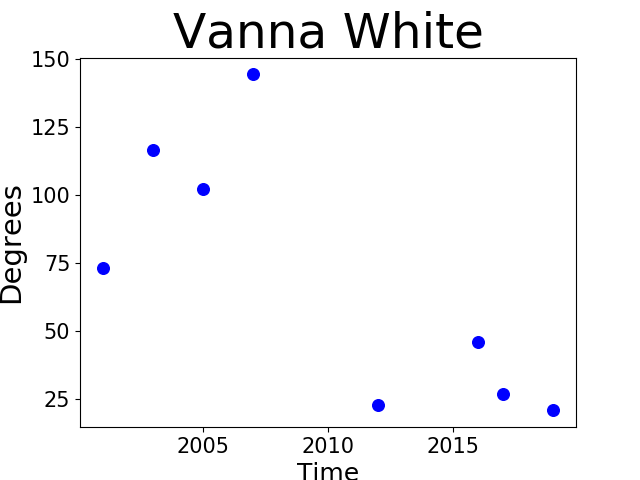
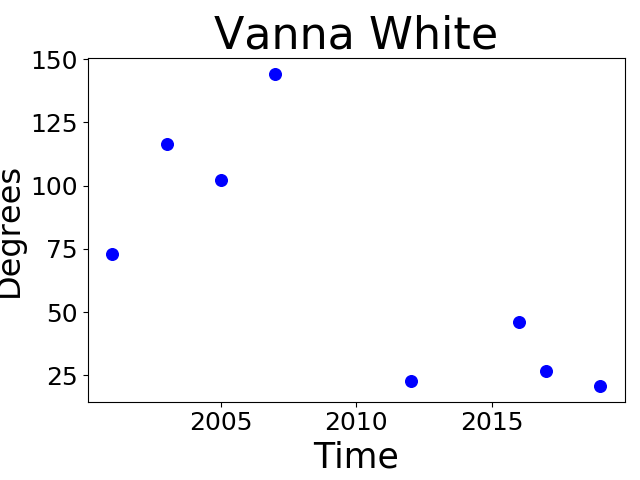
docstrings for data_processor.py

diff --git a/data_processor.py b/data_processor.py
@@ -22,6 +22,17 @@ INT_TO_DIM = {
 
 
 class Subject:
+	"""
+		Stores relevant data for subject.
+
+		Fields:
+			uuid (int): subject identifier
+			parkinsons (bool): True if subject has parkinsons
+			pose_3d (np.array): shape => (frames (time),dimensions,joint ID)
+			date: Date of time sample from pose_3d. -1 if time is irrelevant.
+			group: depecriated. Ignore
+
+	"""
 	def __init__(self,id,parkinsons,pose_3d,date = -1,group = -1): 
 		self.uuid = id
 		self.parkinsons = parkinsons
@@ -30,6 +41,14 @@ class Subject:
 		self.group = group
 
 	def process_features(self,fp):
+		"""
+			Calculates all target features for subject.
+
+			Parameters: 
+				fp (FeatureProcessor): Specified FeatureProcessor to use with calculations
+			Returns:
+				(dictionary): Object containing subjects target features
+		"""
 		features = {}
 		pelvis_angles = fp.pelvis_angles(self.pose_3d)
 		pelvis_accelerations = fp.pelvis_accelerations(self.pose_3d)
@@ -46,14 +65,21 @@ class Subject:
 
 class FeatureProcessor:
 	def __init__(self):
+		"""
+			Holds the methods that calculate specific subject features.
+			Class should contain options relevant to calculations.
+		"""
 		pass
-
-
-
 
 	def pelvis_angles(self,pose_3d):
 		'''
-		@params: pose_3d data of shape => (frames,dimensions,joint ID)
+			Calculates max difference of X,Y,Z pelvis angles for 3d pose.
+
+			Parameters:
+				pose_3d (np.array): shape (frames (time),dimensions,joint ID)
+
+			Returns:
+				(list): [X,Y,Z] pelvis features
 		'''
 		pelvis_angles = {'time_series': [[] for _ in range(3)] , 'diff': [-1 for _ in range(3)]}
 		pelvis_joint_index = 0
@@ -88,6 +114,17 @@ class FeatureProcessor:
 
 
 	def pelvis_accelerations(self,pose_3d):
+		'''
+			Calculates the max difference of the pelvis accelerations for 3d pose.
+
+
+			Parameters:
+				pose_3d: (np.array): shape (frames (time),dimensions,joint ID)
+
+			Returns:
+				(list): [X,Y,Z] pelvis acceleration features
+		'''
+
 		pelvis_acceleration = {'time_series': [[None] for _ in range(3)] , 'diff': [-1 for _ in range(3)]}
 		for dim in range(3):
 			pelvis_positions =  np.asarray([x[dim][0] for x in pose_3d])
@@ -100,6 +137,15 @@ class FeatureProcessor:
 
 
 def get_subjects(split_subjects = False, frame_step = 35):
+	"""
+		Creates a subject object for all subjects located  in tf-pose-estimation/raw_data.
+		
+		Parameters:
+			split_subjects (bool): Indicates whether to split a full time series into multiple subjects
+			frame_step (int): If split_subjects = True, specificy the length needed for each signal to become its own subject.
+		Returns:
+			(dictionary): Object containing all of the calculated subjects
+	"""
 	parkinsons_string = 'parkinsons'
 	non_parkinsons_string = 'non_parkinsons'
 	folder_paths = ['processed_data/{}/'.format(non_parkinsons_string),'processed_data/{}/'.format(parkinsons_string)]
@@ -130,6 +176,14 @@ def get_subjects(split_subjects = False, frame_step = 35):
 
 
 def get_time_subjects(frame_step = 30):
+	"""
+		Creates a subject object containing their respecitive 3d_poses for each time period (see raw data at /tf-pose-estimation/time_data)
+
+		Parameters:
+			frame_step (int): Frame step indicates the length to split each raw 3d_pose time series into a new subject
+		Returns:
+			(dict): Object containing all of the subjects
+	"""
 	subjects = {}
 	for i,filename in enumerate(os.listdir(folder_path)):
 		if filename != ".DS_Store":
@@ -138,8 +192,6 @@ def get_time_subjects(frame_step = 30):
 			date_str = filename.split('.')[0]
 			date_str = date_str if not parkinsons else date_str[1:]
 			(m,d,y) = date_str.split(':')
-			if not parkinsons and int(y) < 2000:
-				continue
 			current_date = datetime.date.today()
 			filename_date = datetime.date(int(y),int(m),int(d))
 			delta = (filename_date - current_date).days
@@ -150,6 +202,16 @@ def get_time_subjects(frame_step = 30):
 	return subjects
 
 def graph_time_series(feature_data,avg = False):
+
+	"""
+		Plots line graphs of target features overtime for all subjecs in feature_data.
+
+		Parameters:
+			feature_data (dict): time feature object
+			avg (bool) = Takes the average of feature calculations for a specific time point if true else the median
+
+	"""
+
 	plot_data = {'parkinsons': 
 
 				{'Z_accelerations': [],
@@ -211,17 +273,18 @@ def graph_time_series(feature_data,avg = False):
 				plt.scatter(x,y, color = 'red' if class_key == 'parkinsons' else 'blue', s = 70)
 
 				if 'accelerations' not in key:
-					plt.ylabel("Degrees",fontsize = 21)
+					plt.ylabel("Degrees",fontsize = 23)
 				else:
-					plt.ylabel("Acceleration",fontsize = 21)
+					plt.ylabel("Acceleration",fontsize = 23)
 				if class_key == "parkinsons":
-					plt.title('Muhammad Ali', fontsize = 35)
+					plt.title('Muhammad Ali', fontsize = 32)
 				else:
-					plt.title("Vanna White",fontsize = 35)
+					plt.title("Vanna White",fontsize = 32)
 
-				plt.xlabel("Time",fontsize = 18)
-				plt.yticks(fontSize = 15)
-				plt.xticks(fontSize = 15)
+				plt.xlabel("Time",fontsize =25)
+				plt.tight_layout()
+				plt.yticks(fontSize = 18)
+				plt.xticks(fontSize = 18)
 				plt.locator_params(nbins=6)
 				plt.savefig("time_series/{}_{}.png".format(class_key,key))
 				plt.show()
@@ -229,6 +292,15 @@ def graph_time_series(feature_data,avg = False):
 
 
 def get_time_features(subjects):
+	"""
+		Stores long term feature trends from each subject into an object
+
+		Parameters:
+			subjects (dict): contains 3d_pose for each time period of all subjects
+		Returns:
+			(dict): features for each time period / subject 
+	"""
+
  fp = FeatureProcessor()
  features = {'parkinsons': {}, 'non_parkinsons': {},}
  for subject_key in subjects:
@@ -240,6 +312,14 @@ def get_time_features(subjects):
 
 
 def show_seperation(feature_data):
+	"""
+		Plots a visualization of the seperation between non-parkinsons and parkinsons target features.
+		
+		Parameters:
+			feature_data (dict): feature object
+		Returns: 
+			None
+	"""
 
 
 	for feature_key in feature_data:
@@ -264,6 +344,16 @@ def show_seperation(feature_data):
 			plt.show()
 
 def t_tests(feature_data,alpha = .05):
+	"""
+		Run t_tests for X,Y,Z dimensions of target features.
+
+		Parameters:
+			feature_data (dict): feature object
+		Returns:
+			None
+
+	"""
+
 	for feature_key in feature_data:
 			features = feature_data[feature_key]
 			for n in range(3):
@@ -279,6 +369,15 @@ def t_tests(feature_data,alpha = .05):
 
 
 def show_histograms(feature_data):
+	"""
+		Plot histogram distributions of feature data
+
+		Parameters:
+			feature_data (dictionary): feature object containing all subjects and their relevant features
+		Returns:
+			None
+	"""
+
 	for feature_key in feature_data:
 		features = feature_data[feature_key]
 		print("{}:".format(feature_key))
@@ -295,6 +394,17 @@ def show_histograms(feature_data):
 
 
 def get_features():
+	""""
+		Returns a dictionary of all target features associated with parkinsons vs non-parkinsons subjects
+
+		Parameters:
+			None
+		Returns:
+			(dict): feature object associated with subjects
+
+	"""
+
+
 	subjects = get_subjects(split_subjects = True)
 	pelvis_accelerations,pelvis_angles = {'parkinsons': [[] for _ in range(3)], 'non_parkinsons': [[] for _ in range(3)],} , {'parkinsons': [[] for _ in range(3)], 'non_parkinsons': [[] for _ in range(3)],} 
 	fp = FeatureProcessor()
@@ -313,6 +423,20 @@ def get_features():
 	}
 
 def grouped_bar_plot(feature_data,title_key,avg = True,barWidth = .25):
+
+	"""
+	Plots double X,Y,Z grouped bar plot for target feature.
+
+		Parameters:
+			feature_data (dict): contains all feature points for subjects of both classes (non-park vs park)
+			title_key (string): name of feature
+			avg (bool): take the median or avg for bar calculation
+			barWidth (float): width of each bar
+
+		Returns:
+			None
+	"""
+
 	plot_data = {}
 	for class_key in feature_data:
 		if avg:
@@ -320,6 +444,7 @@ def grouped_bar_plot(feature_data,title_key,avg = True,barWidth = .25):
 		else:
 			plot_data[class_key] = [np.median(feature_data[class_key][n]) for n in range(3)]
 
+	#r helps define spacing between bar plot entries
 	r = np.arange(3)
 	for i,key in enumerate(plot_data):
 		color = 'red' if i == 0 else 'blue'
@@ -331,6 +456,8 @@ def grouped_bar_plot(feature_data,title_key,avg = True,barWidth = .25):
 	
 	if title_key == "pelvis_angles":
 		plt.ylabel("Degrees",fontsize = 25)
+
+	#formatting settings for clear graph	
 	plt.title(title,fontsize = 25)
 	plt.xticks([x + barWidth for x in range(3)],["X","Y","Z"],fontSize = 15 )
 	plt.yticks(fontSize = 15)
@@ -342,6 +469,21 @@ def grouped_bar_plot(feature_data,title_key,avg = True,barWidth = .25):
 	
 
 def get_3d_poses(folder,output_folder):
+
+	'''
+		Takes all 2d_poses (npy) from input folder and stores them as 3d_poses in output_folder (npy).
+		
+		Parameters:
+			folder (str): Name of folder containing 2d_poses.
+			output_folder: Folder to store 3d_poses.
+
+		Returns: 
+			None
+
+		TODO: Currently overides all 3d_poses. Should check if already calculated 2d_poses to save processing time.
+		Maybe add an overide option too if thats not desired use case.
+
+	'''
 
 	parser = argparse.ArgumentParser(description='tf-pose-estimation run')
 	parser.add_argument('--image', type=str, default='./images/p1.jpg')
@@ -362,6 +504,14 @@ def get_3d_poses(folder,output_folder):
 
 
 def check_gap_amount(folder):
+	"""
+		Displays number of missed 2d_pose frames from detectron2 output.
+
+		Parameters:
+			folder (str): folder of 2d_posesx
+		Returns:
+			None.
+	"""
 	for filename in os.listdir(folder):
 		if filename!= ".DS_Store":
 			pose_2d = np.load(folder + filename,allow_pickle = True)[0]
@@ -374,6 +524,24 @@ def check_gap_amount(folder):
 			print('{}:{}'.format(filename,gap_counter))
 
 
+
+
+def plot_all_dims(data,title,color):
+	"""
+		Plots raw time series signal.
+
+		Parameters: 
+			data (list): 3 dimensional time series to plot
+			title: graph title
+			color: line color
+		Returns:
+			None
+	"""
+	fig, axes = plt.subplots(3)
+	fig.suptitle(title)
+	for i,dim_data in enumerate(data):
+		axes[i].plot(dim_data,color = color)
+	plt.show()
 	
 
 
@@ -390,14 +558,6 @@ def main():
 	
 	
 
-
-
-def plot_all_dims(data,title,color):
-	fig, axes = plt.subplots(3)
-	fig.suptitle(title)
-	for i,dim_data in enumerate(data):
-		axes[i].plot(dim_data,color = color)
-	plt.show()
 
 
 if __name__ == "__main__":
